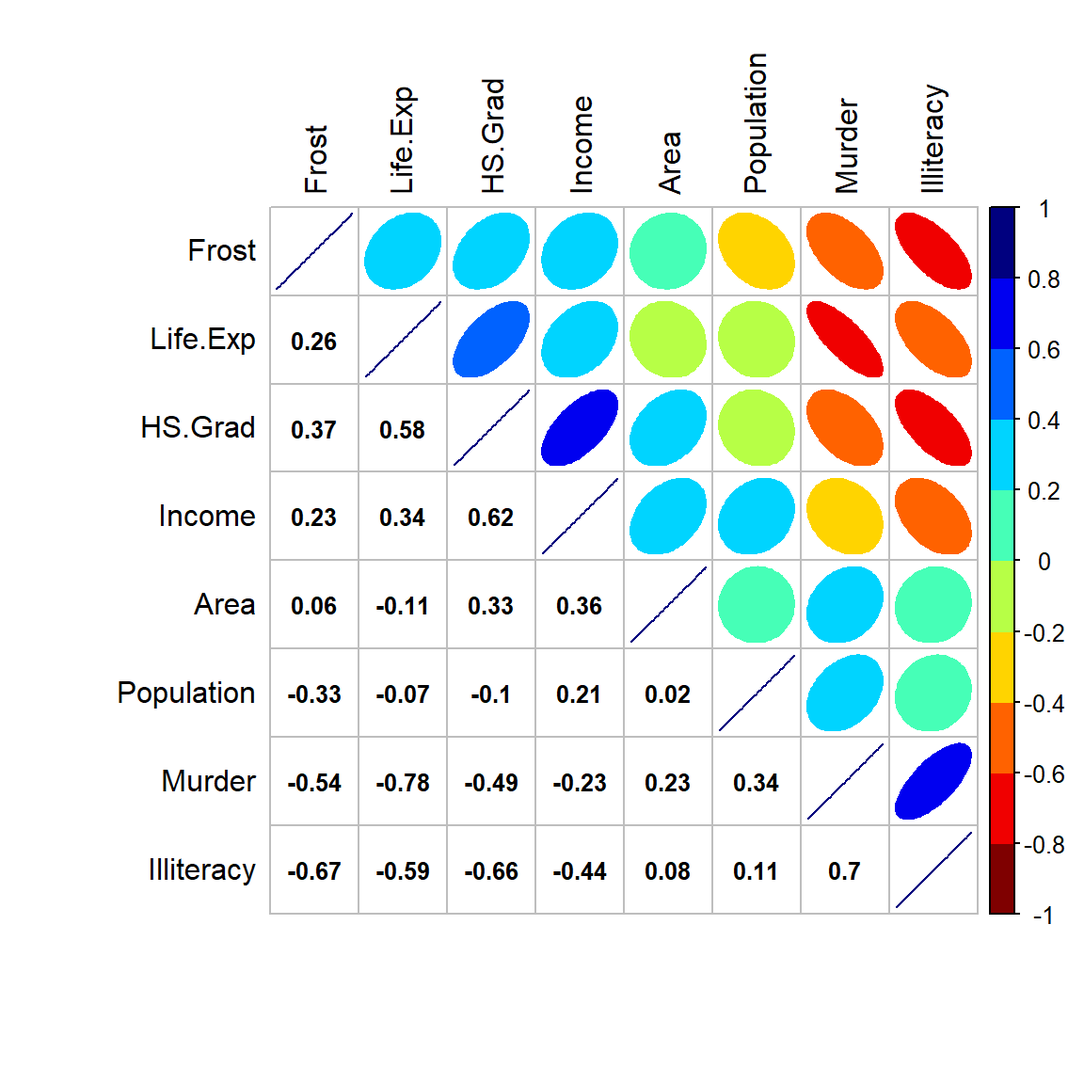
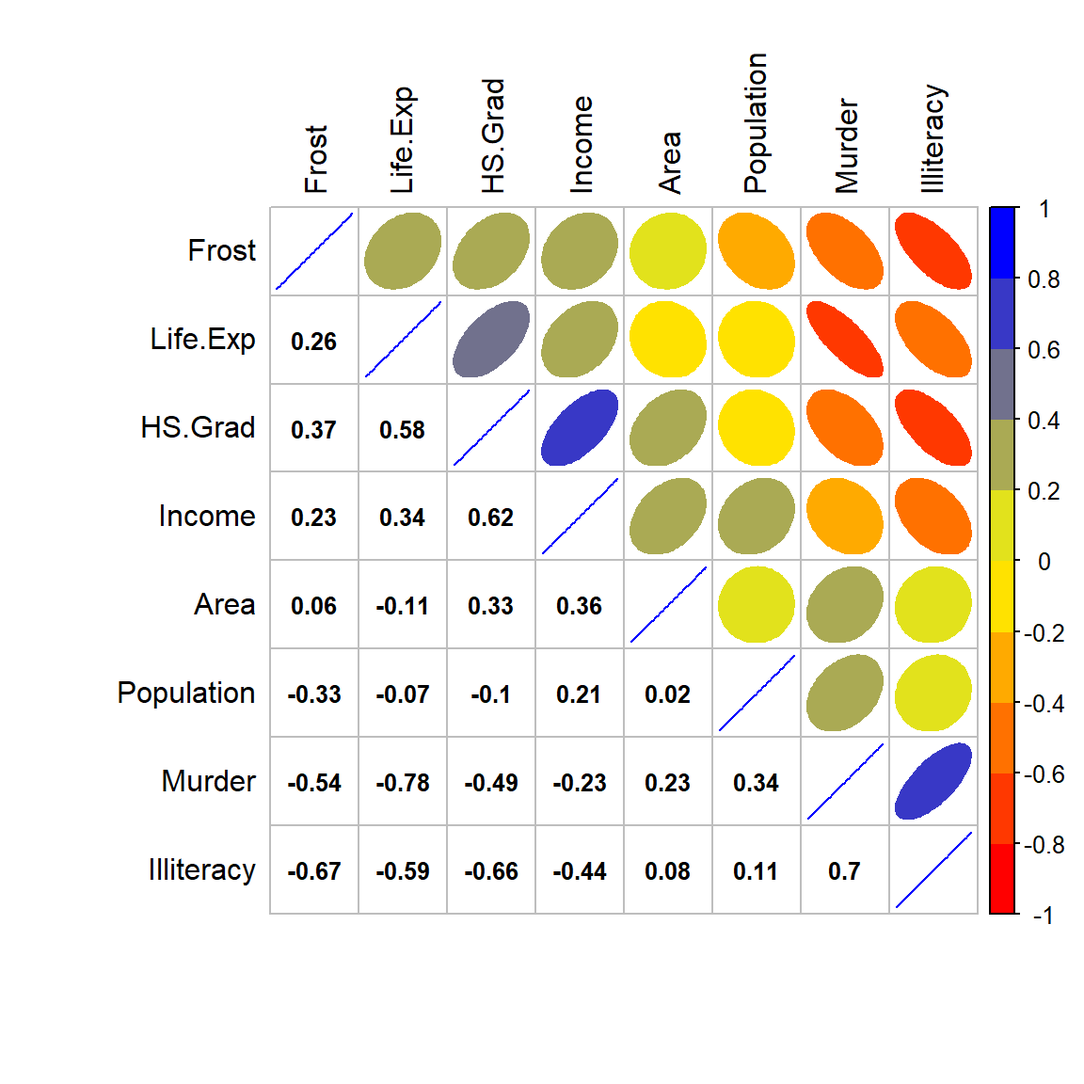
4/8/2019

Changed region(s): [[0.3125, 0.1875, 0.9375, 0.8438]]

diff --git a/docs/exploring-of-state-data-set.html b/docs/exploring-of-state-data-set.html
@@ -25,7 +25,7 @@
 <meta name="author" content="Xijin Ge">
 
 
-<meta name="date" content="2019-04-07">
+<meta name="date" content="2019-04-08">
 
   <meta name="viewport" content="width=device-width, initial-scale=1">
   <meta name="apple-mobile-web-app-capable" content="yes">
@@ -175,7 +175,7 @@ code > span.in { color: #60a0b0; font-weight: bold; font-style: italic; } /* Inf
 </ul></li>
 <li class="chapter" data-level="8" data-path="exploring-of-state-data-set.html"><a href="exploring-of-state-data-set.html"><i class="fa fa-check"></i><b>8</b> Exploring of state data set</a><ul>
 <li class="chapter" data-level="8.1" data-path="exploring-of-state-data-set.html"><a href="exploring-of-state-data-set.html#reading-in-and-manipulating-data"><i class="fa fa-check"></i><b>8.1</b> Reading in and manipulating data</a></li>
-<li class="chapter" data-level="8.2" data-path="exploring-of-state-data-set.html"><a href="exploring-of-state-data-set.html#exploring-state-data"><i class="fa fa-check"></i><b>8.2</b> Exploring state data</a></li>
+<li class="chapter" data-level="8.2" data-path="exploring-of-state-data-set.html"><a href="exploring-of-state-data-set.html#visualizing-data"><i class="fa fa-check"></i><b>8.2</b> Visualizing data</a></li>
 <li class="chapter" data-level="8.3" data-path="exploring-of-state-data-set.html"><a href="exploring-of-state-data-set.html#analyzing-the-relationship-among-variables"><i class="fa fa-check"></i><b>8.3</b> Analyzing the relationship among variables</a></li>
 <li class="chapter" data-level="8.4" data-path="exploring-of-state-data-set.html"><a href="exploring-of-state-data-set.html#peeking-the-whole-picture-of-the-data-set"><i class="fa fa-check"></i><b>8.4</b> Peeking the whole picture of the data set</a></li>
 <li class="chapter" data-level="8.5" data-path="exploring-of-state-data-set.html"><a href="exploring-of-state-data-set.html#linear-model-anylysis"><i class="fa fa-check"></i><b>8.5</b> Linear model anylysis</a></li>
@@ -311,9 +311,14 @@ sta &lt;-<span class="st"> </span><span class="kw">cbind</span>(state.abb, tem, 
 ##  Max.   :566432                     
 ## </code></pre>
 </div>
-<div id="exploring-state-data" class="section level2">
-<h2><span class="header-section-number">8.2</span> Exploring state data</h2>
-<p>Firstly, let’s see whether the numeric variables are normally distributed or not.There are multiple ways to check the normality of numeric data: - histogram: Does the histogram approaches to a normal density curve? If yes, then the variable more likely follows a normal distribution. - Q-Q plot: Does the sample quantiles almost fall into a straight line ? If yes, then the variable more likely followa a normal distribution. - Shapiro-Wilk test: This is a widely used normality test. The null hypothesis is that a variable follows a normal distribution. Small p-value indicates a non-normality of the variable.</p>
+<div id="visualizing-data" class="section level2">
+<h2><span class="header-section-number">8.2</span> Visualizing data</h2>
+<p>Let’s start from visualizing the distributions of numeric variables. In many cases, we want to know if our data follows a normal distribution or not. Here are some ways that we can check the normality of a variable.</p>
+<ul>
+<li><p>Histogram: Does the histogram approaches to a normal density curve? If yes, then the variable more likely follows a normal distribution.</p></li>
+<li><p>Q-Q plot: Does the sample quantiles almost fall into a straight line ? If yes, then the variable more likely followa a normal distribution.</p></li>
+<li><p>Shapiro-Wilk test: This is a widely used normality test. The null hypothesis is that a variable follows a normal distribution. Small p-value indicates a non-normality of the variable.</p></li>
+</ul>
 <div class="sourceCode"><pre class="sourceCode r"><code class="sourceCode r"><span class="kw">library</span>(dplyr)
 a &lt;-<span class="st"> </span><span class="kw">colnames</span>(sta)[<span class="dv">2</span><span class="op">:</span><span class="dv">9</span>] <span class="co"># pick up all numeric columns/variables according to the names </span>
 <span class="kw">par</span>(<span class="dt">mfrow =</span> <span class="kw">c</span>(<span class="dv">4</span>, <span class="dv">4</span>))    <span class="co"># layout outouts in 4 rows and 4 columns</span>
@@ -326,7 +331,7 @@ a &lt;-<span class="st"> </span><span class="kw">colnames</span>(sta)[<span clas
                       <span class="co"># frame as a numeric vector. Functions can be applied to a vector directly.  </span>
   <span class="kw">hist</span>(sub, <span class="dt">main =</span> <span class="kw">paste</span>(<span class="st">&quot;Hist. of&quot;</span>, a[i], <span class="dt">sep =</span> <span class="st">&quot; &quot;</span>), <span class="dt">xlab =</span> a[i])
   <span class="kw">qqnorm</span>(sub, <span class="dt">main =</span> <span class="kw">paste</span>(<span class="st">&quot;Q-Q Plot of&quot;</span>, a[i], <span class="dt">sep =</span> <span class="st">&quot; &quot;</span>)) <span class="co">#Q-Q plot</span>
-  <span class="kw">qqline</span>(sub)           <span class="co"># Add a qq plot line. </span>
+  <span class="kw">qqline</span>(sub)           <span class="co"># Add a QQ plot line. </span>
   <span class="cf">if</span> (i <span class="op">==</span><span class="st"> </span><span class="dv">1</span>) {s.t &lt;-<span class="st"> </span><span class="kw">shapiro.test</span>(sub) <span class="co"># Normality test for population</span>
   } <span class="cf">else</span> {s.t &lt;-<span class="st"> </span><span class="kw">rbind</span>(s.t, <span class="kw">shapiro.test</span>(sub)) <span class="co"># Bind a new test result to previous results in row. </span>
  }
@@ -345,12 +350,12 @@ s.t</code></pre></div>
 ##     &quot;Frost&quot;      0.9545618 0.05267472  
 ##     &quot;Area&quot;       0.5717872 7.591835e-11</code></pre>
 <p>From the histograms and QQplots we can see that the distribution of Population, Illiteracy and Area skewed to the left. Income and Life.Exp distributed close to normal. The shapiro tests show that Income, Life.Exp and Frost are normally distributed with p value greater than 0.05, while Murder and HS.Grad are almost normally distributed with p value really close to 0.05. There is no evidence that Population, Illiteracy and Area have normal distribution.</p>
-<p>As for the categorical variable region, here is the region information including the count and percentage of states.</p>
+<p>In the state data, there are a categorical variable <em>region</em> which contains 4 observations. What is the distribution of the categorical variable? Let’s take a look at the number of observations(states) in each region and the corresponding percentage.</p>
 
-<div class="sourceCode"><pre class="sourceCode r"><code class="sourceCode r">counts &lt;-<span class="st"> </span><span class="kw">sort</span>(<span class="kw">table</span>(sta<span class="op">$</span>Region), <span class="dt">decreasing =</span> <span class="ot">TRUE</span>)
-percentages &lt;-<span class="st"> </span><span class="dv">100</span> <span class="op">*</span><span class="st"> </span>counts <span class="op">/</span><span class="st"> </span><span class="kw">length</span>(sta<span class="op">$</span>Region)
-<span class="kw">barplot</span>(percentages, <span class="dt">ylab =</span> <span class="st">&quot;Percentage&quot;</span>, <span class="dt">col =</span> <span class="st">&quot;lightblue&quot;</span>)
-<span class="kw">text</span>(<span class="dt">x=</span><span class="kw">seq</span>(<span class="fl">0.7</span>, <span class="dv">5</span>, <span class="fl">1.2</span>), <span class="dv">2</span>, <span class="kw">paste</span>(<span class="st">&quot;n=&quot;</span>, counts))</code></pre></div>
+<div class="sourceCode"><pre class="sourceCode r"><code class="sourceCode r">counts &lt;-<span class="st"> </span><span class="kw">sort</span>(<span class="kw">table</span>(sta<span class="op">$</span>Region), <span class="dt">decreasing =</span> <span class="ot">TRUE</span>)  <span class="co">#Count the number of states in each region</span>
+percentages &lt;-<span class="st"> </span><span class="dv">100</span> <span class="op">*</span><span class="st"> </span>counts <span class="op">/</span><span class="st"> </span><span class="kw">length</span>(sta<span class="op">$</span>Region)      <span class="co">#Calculate the percentage of states in each region</span>
+<span class="kw">barplot</span>(percentages, <span class="dt">ylab =</span> <span class="st">&quot;Percentage&quot;</span>, <span class="dt">col =</span> <span class="st">&quot;lightblue&quot;</span>) <span class="co">#Obtain bar chart based on percentages</span>
+<span class="kw">text</span>(<span class="dt">x=</span><span class="kw">seq</span>(<span class="fl">0.7</span>, <span class="dv">5</span>, <span class="fl">1.2</span>), <span class="dv">2</span>, <span class="kw">paste</span>(<span class="st">&quot;n=&quot;</span>, counts))      <span class="co">#Add count to each bar</span></code></pre></div>
 <div class="figure" style="text-align: center"><span id="fig:state-region"></span>
 <img src="book_files/figure-html/state-region-1.png" alt="State count in each region" width="672" />
 <p class="caption">
@@ -358,14 +363,14 @@ Figure 8.1: State count in each region
 </p>
 </div>
 <p>Bar plot tells us that we have relatively more states in South(16) and less states in Northeast(9). North Central and West have similar number of states(12 and 13).</p>
-<p>If we want to know whether the populations in California and New York are more than the other states like what we have in now days, or the population of South Dakota comparing with other states, we use Lollipop plot to show the population of all states.</p>
+<p>If we want to know whether the populations in California and New York are more than the other states like what we have in now days, or the population of South Dakota comparing with other states, we use Lollipop plot to show the population of all states. A lollipop plot is a hybrid of a scatter plot and a barplot. It shows the relationship between two variables. One must be numerical variable, and the other one can be numerical or categorical variable.A lollipop chart is constituted by a point (made with geom_point) and a segment (made by geom_segment). Therefore you can modify this two components using the usual arguments: ‘size’, ‘color’, ‘linetype’, ‘alpha’, ‘shape’, etc. Here is the lollipop chart shows the relationship between state and population.</p>
 
 <div class="sourceCode"><pre class="sourceCode r"><code class="sourceCode r"><span class="kw">library</span>(ggplot2)
 <span class="kw">ggplot</span>(sta, <span class="kw">aes</span>(<span class="dt">x =</span> State, <span class="dt">y =</span> Population)) <span class="op">+</span>
-<span class="st">  </span><span class="kw">geom_point</span>(<span class="dt">size =</span> <span class="dv">3</span>) <span class="op">+</span>
+<span class="st">  </span><span class="kw">geom_point</span>(<span class="dt">size=</span><span class="dv">3</span>, <span class="dt">color=</span><span class="st">&quot;red&quot;</span>, <span class="dt">fill=</span><span class="kw">alpha</span>(<span class="st">&quot;orange&quot;</span>, <span class="fl">0.3</span>), <span class="dt">alpha=</span><span class="fl">0.5</span>, <span class="dt">shape=</span><span class="dv">20</span>, <span class="dt">stroke=</span><span class="dv">2</span>) <span class="op">+</span>
 <span class="st">  </span><span class="kw">geom_segment</span>(<span class="kw">aes</span>(<span class="dt">x =</span> State, <span class="dt">xend =</span> State, <span class="dt">y =</span> <span class="dv">0</span>, <span class="dt">yend =</span> Population)) <span class="op">+</span>
 <span class="st">  </span><span class="kw">labs</span>(<span class="dt">title =</span> <span class="st">&quot;Lollipop Chart for Population&quot;</span>) <span class="op">+</span>
-<span class="st">  </span><span class="kw">theme</span>(<span class="dt">plot.title =</span> <span class="kw">element_text</span>(<span class="dt">hjust =</span> <span class="fl">0.5</span>), <span class="dt">axis.text.x =</span> <span class="kw">element_text</span>(<span class="dt">angle =</span> <span class="dv">65</span>, <span class="dt">vjust =</span> <span class="fl">0.6</span>))</code></pre></div>
+<span class="st">  </span><span class="kw">theme</span>(<span class="dt">plot.title =</span> <span class="kw">element_text</span>(<span class="dt">hjust =</span> <span class="fl">0.5</span>), <span class="dt">axis.text.x =</span> <span class="kw">element_text</span>(<span class="dt">angle =</span> <span class="dv">90</span>, <span class="dt">vjust =</span> <span class="fl">0.5</span>))</code></pre></div>
 <div class="figure" style="text-align: center"><span id="fig:state-pop"></span>
 <img src="book_files/figure-html/state-pop-1.png" alt="Loppipop plot of population in each state" width="672" />
 <p class="caption">
@@ -373,12 +378,13 @@ Figure 8.2: Loppipop plot of population in each state
 </p>
 </div>
 <p>From the plot we can see even in early days, California and New York are the top two states in population. South Dakota have little population even in 1970s.</p>
-<p>Other questions we may ask are: how about the murder rate distribution in early days? Is it the same for different states and different regions? What are the main effect factors to murder rate? Can we use model of other factors to explain their contribution to murder rate?</p>
+<p>Other questions we may ask are: how about the murder rate distribution in early days? Is it the same for different states and different regions? What are the main effect factors to murder rate? Can we use model of other factors to explain their contribution to murder rate? A choropleth map may give us an overall view.</p>
 
 <div class="sourceCode"><pre class="sourceCode r"><code class="sourceCode r"><span class="kw">library</span>(maps)
-sta<span class="op">$</span>region &lt;-<span class="st"> </span><span class="kw">tolower</span>(state.name)  <span class="co"># create new character vector with lowercase states names</span>
-states &lt;-<span class="st"> </span><span class="kw">map_data</span>(<span class="st">&quot;state&quot;</span>)  <span class="co"># extract state data</span>
-map &lt;-<span class="st"> </span><span class="kw">merge</span>(states, sta, <span class="dt">by =</span> <span class="st">&quot;region&quot;</span>, <span class="dt">all.x =</span> T)  <span class="co"># merge states and state.x77 data</span>
+<span class="kw">library</span>(ggplot2)
+sta<span class="op">$</span>region &lt;-<span class="st"> </span><span class="kw">tolower</span>(state.name)  <span class="co"># Create new character vector with lowercase states names</span>
+states &lt;-<span class="st"> </span><span class="kw">map_data</span>(<span class="st">&quot;state&quot;</span>)        <span class="co"># Extract state data</span>
+map &lt;-<span class="st"> </span><span class="kw">merge</span>(states, sta, <span class="dt">by =</span> <span class="st">&quot;region&quot;</span>, <span class="dt">all.x =</span> T)  <span class="co"># Merge states and state.x77 data</span>
 map &lt;-<span class="st"> </span>map[<span class="kw">order</span>(map<span class="op">$</span>order), ]
 <span class="kw">ggplot</span>(map, <span class="kw">aes</span>(<span class="dt">x =</span> long, <span class="dt">y =</span> lat, <span class="dt">group =</span> group)) <span class="op">+</span><span class="st">  </span>
 <span class="st">  </span><span class="kw">geom_polygon</span>(<span class="kw">aes</span>(<span class="dt">fill =</span> Murder)) <span class="op">+</span><span class="st">   </span>
@@ -411,27 +417,33 @@ Figure 8.4: Ridgeline plot for murder rate in each region
 <p>The ridgeline plot tells us that murder rate skewed to the left for region west, northeast and north central, but skewed to the right for region south, which confirm with map above that south has big murder rate than other regions.</p>
 
 <div class="exercise">
-<span id="exr:unnamed-chunk-3" class="exercise"><strong>Exercise 8.1  </strong></span>Use lollipop plots to explore the distribution of Illiteracy in state.x77 data set and give brief interpretation. Hint: You can combine state.abb to state.x77 or use the row names of state.x77 data set directly.
+<span id="exr:unnamed-chunk-3" class="exercise"><strong>Exercise 8.1  </strong></span>Similar to Figure <a href="exploring-of-state-data-set.html#fig:state-map">8.3</a>, use lollipop plots to obtain the Illiteracy map in state.x77 data set and give a brief interpretation. Hint: You can combine state.abb to state.x77 or use the row names of state.x77 data set directly. You can start from importing the data:
 </div>
 
+<div class="sourceCode"><pre class="sourceCode r"><code class="sourceCode r">tem &lt;-<span class="st"> </span><span class="kw">data.frame</span>(state.x77) 
+sta &lt;-<span class="st"> </span><span class="kw">cbind</span>(state.abb, tem, state.region)
+<span class="kw">colnames</span>(sta)[<span class="dv">10</span>] &lt;-<span class="st"> &quot;Region&quot;</span> 
+......</code></pre></div>
+<hr />
 
 <div class="exercise">
-<span id="exr:unnamed-chunk-4" class="exercise"><strong>Exercise 8.2  </strong></span>Use ridgeline plot to explore the regional distribution of Illiteracy for state.x77 and state.region data sets and interpret your figure.
+<span id="exr:unnamed-chunk-5" class="exercise"><strong>Exercise 8.2  </strong></span>Similar to Figure <a href="exploring-of-state-data-set.html#fig:state-murder">8.4</a>, use ridgeline plot to explore the regional distribution of Illiteracy for state.x77 and state.region data sets and interpret your figure.
 </div>
 
+<hr />
 </div>
 <div id="analyzing-the-relationship-among-variables" class="section level2">
 <h2><span class="header-section-number">8.3</span> Analyzing the relationship among variables</h2>
+<p>To visulize the linear relationship among variables in a plot, a scatter matrix is the best choice. A scatter matrix is a pair-wise scatter plot of multiple variables presented in a matrix format. It measures the linear relationship among variables. The range of correlation coefficient is [-1, 1]. The coefficient -1 implies two variables are strictly negative related, such as <span class="math inline">\(y=-x\)</span>. And coefficient 1 implies positive related, such as <span class="math inline">\(y=2x+1\)</span>. Here is an example of how to make a scatter matrix.</p>
 
 <div class="sourceCode"><pre class="sourceCode r"><code class="sourceCode r">st &lt;-<span class="st"> </span>sta[, <span class="dv">2</span><span class="op">:</span><span class="dv">9</span>] <span class="co">#take numeric variables as goal matrix</span>
 <span class="kw">library</span>(ellipse) 
 <span class="kw">library</span>(corrplot)
-corMatrix &lt;-<span class="st"> </span><span class="kw">cor</span>(<span class="kw">as.matrix</span>(st)) <span class="co"># correlation matrix</span>
-col &lt;-<span class="st"> </span><span class="kw">colorRampPalette</span>(<span class="kw">c</span>(<span class="st">&quot;#7F0000&quot;</span>, <span class="st">&quot;red&quot;</span>, <span class="st">&quot;#FF7F00&quot;</span>, <span class="st">&quot;yellow&quot;</span>, <span class="st">&quot;#7FFF7F&quot;</span>,
-                           <span class="st">&quot;cyan&quot;</span>, <span class="st">&quot;#007FFF&quot;</span>, <span class="st">&quot;blue&quot;</span>, <span class="st">&quot;#00007F&quot;</span>))
+corMatrix &lt;-<span class="st"> </span><span class="kw">cor</span>(<span class="kw">as.matrix</span>(st)) <span class="co"># Calculate correlation matrix</span>
+col &lt;-<span class="st"> </span><span class="kw">colorRampPalette</span>(<span class="kw">c</span>(<span class="st">&quot;red&quot;</span>, <span class="st">&quot;yellow&quot;</span>, <span class="st">&quot;blue&quot;</span>))   <span class="co">#Color values. Red, yellow and blue represent that the coefficients are -1, 0 and 1 respectively. You can use more than 3 colors to represent the coefficients ranging from -1 to 1.</span>
 <span class="kw">corrplot.mixed</span>(corMatrix, <span class="dt">order =</span> <span class="st">&quot;AOE&quot;</span>, <span class="dt">lower =</span> <span class="st">&quot;number&quot;</span>, <span class="dt">lower.col =</span> <span class="st">&quot;black&quot;</span>, 
                <span class="dt">number.cex =</span> .<span class="dv">8</span>, <span class="dt">upper =</span> <span class="st">&quot;ellipse&quot;</span>,  <span class="dt">upper.col =</span> <span class="kw">col</span>(<span class="dv">10</span>), 
-               <span class="dt">diag =</span> <span class="st">&quot;u&quot;</span>, <span class="dt">tl.pos =</span> <span class="st">&quot;lt&quot;</span>, <span class="dt">tl.col =</span> <span class="st">&quot;black&quot;</span>)</code></pre></div>
+               <span class="dt">diag =</span> <span class="st">&quot;u&quot;</span>, <span class="dt">tl.pos =</span> <span class="st">&quot;lt&quot;</span>, <span class="dt">tl.col =</span> <span class="st">&quot;black&quot;</span>) <span class="co">#Type ?corrplot.mixed in the Console to get help in detail.</span></code></pre></div>
 <div class="figure" style="text-align: center"><span id="fig:state-corrplot"></span>
 <img src="book_files/figure-html/state-corrplot-1.png" alt="Corrplot for numeric variables" width="576" />
 <p class="caption">
@@ -443,9 +455,10 @@ Figure 8.5: Corrplot for numeric variables
 <p>Positive correlation between Murder and Illiteracy with r value of 0.70, which means the lower education level the state have, the higher murder rate chance it will happen in that state; Negative correlations between Murder and Life.Exp, Frost, with r value of -0.78, and -0.54 illustrate that the more occurrence of murder, the shorter life expectation the state will have; And the colder of the weather, the lower chance the murder will occur: too cold to murder?!</p>
 
 <div class="exercise">
-<span id="exr:unnamed-chunk-5" class="exercise"><strong>Exercise 8.3  </strong></span>According to the corrplot, Figure <a href="exploring-of-state-data-set.html#fig:state-corrplot">8.5</a>, explain the correlation between Illiteracy and other variables.
+<span id="exr:unnamed-chunk-6" class="exercise"><strong>Exercise 8.3  </strong></span>Similar to Figure <a href="exploring-of-state-data-set.html#fig:state-corrplot">8.5</a>, plot a scatter matrix among 7 variables: <em>mpg</em>, <em>cyl</em>, <em>disp</em>, <em>hp</em>, <em>drat</em>, <em>wt</em> and <em>qsec</em> in the data set <em>mtcars</em>. Give a brief interpretation of the scatter matrix plot.
 </div>
 
+<hr />
 <p>Now let’s see the cluster situation of these variables.</p>
 
 <div class="sourceCode"><pre class="sourceCode r"><code class="sourceCode r"><span class="kw">plot</span>(<span class="kw">hclust</span>(<span class="kw">as.dist</span>(<span class="dv">1</span> <span class="op">-</span><span class="st"> </span><span class="kw">cor</span>(<span class="kw">as.matrix</span>(st)))))  <span class="co"># hierarchical clustering</span></code></pre></div>
@@ -456,6 +469,12 @@ Figure 8.6: Cluster dendrogram for state numeric variables
 </p>
 </div>
 <p>The cluster Dendrogram tells us that there are two clusters for these variables. Murder is mostly close to Illiteracy, and then to Population and Area. Similar situation, HS.Grad is mostly close to Income, and then to Life.Exp and Frost. Though illiteracy and HS.Grad are in different cluster, we know for the same state, illiteracy is highly correlated with high school graduation rate , the lower the illiteracy, the higher the high school graduation rate. r value of -0.66 between Illiteracy and HS.Grad in the corrplot tells the same story.</p>
+
+<div class="exercise">
+<span id="exr:unnamed-chunk-7" class="exercise"><strong>Exercise 8.4  </strong></span>Similar to Figure <a href="exploring-of-state-data-set.html#fig:state-dendrogram">8.6</a>, plot a cluster dendrogram of the 7 variables: <em>mpg</em>, <em>cyl</em>, <em>disp</em>, <em>hp</em>, <em>drat</em>, <em>wt</em> and <em>qsec</em> in the data set <em>mtcars</em>. Give a brief interpretation of your output.
+</div>
+
+<hr />
 <p>we can use density plot to see the distribution of Illiteracy by region.</p>
 
 <div class="sourceCode"><pre class="sourceCode r"><code class="sourceCode r"><span class="kw">ggplot</span>(sta, <span class="kw">aes</span>(<span class="dt">x =</span> Illiteracy, <span class="dt">fill =</span> Region)) <span class="op">+</span><span class="st"> </span><span class="kw">geom_density</span>(<span class="dt">alpha =</span> <span class="fl">0.3</span>)</code></pre></div>
@@ -466,6 +485,12 @@ Figure 8.7: Illiteracy distribution by region
 </p>
 </div>
 <p>We can see that north central region has narrow density distribution with most Illiteracy less than 1 percent of population. While south region has an open distribution with illiteracy covered from 0.5 to 3, and most south states have illiteracy between 1.5 and 2.2. Though region west has a spread out distribution too, but it’s left skewed, which means there are still lots of west states with illiteracy less than 1% of population. Most northeast region states have illiteracy less then 1.5% of population.</p>
+
+<div class="exercise">
+<span id="exr:unnamed-chunk-8" class="exercise"><strong>Exercise 8.5  </strong></span>Similar to Figure <a href="exploring-of-state-data-set.html#fig:state-illiteracy">8.7</a>, use density plot to see the distribution of <em>mpg</em> by <em>cyl</em> in the data set <em>mtcars</em>.
+</div>
+
+<hr />
 <p>Because of the relationship of Murder with both Population and Area, We add one more column of Pop.Density for the population per square miles of area to see the correlation between Murder and this density.</p>
 
 <div class="sourceCode"><pre class="sourceCode r"><code class="sourceCode r">sta<span class="op">$</span>Pop.Density &lt;-<span class="st"> </span>sta<span class="op">$</span>Population<span class="op">/</span>sta<span class="op">$</span>Area
@@ -534,9 +559,10 @@ Figure 8.11: Relationship between murder rate and life expectancy, high school g
 <p>Most southern states has lower HS.Grad high, low Life.Exp but higher murder frequency, while states in other three regions have relative higher HS.Grad and income but lower murder rate.</p>
 
 <div class="exercise">
-<span id="exr:unnamed-chunk-6" class="exercise"><strong>Exercise 8.4  </strong></span>Use scatter plot to analyze the correlation between Illiteracy and those variables in the other cluster shown in Figure <a href="exploring-of-state-data-set.html#fig:state-dendrogram">8.6</a>. Interpret your plot.
+<span id="exr:unnamed-chunk-9" class="exercise"><strong>Exercise 8.6  </strong></span>Use scatter plot to analyze the correlation between Illiteracy and those variables in the other cluster shown in Figure <a href="exploring-of-state-data-set.html#fig:state-dendrogram">8.6</a>. Interpret your plot.
 </div>
 
+<hr />
 </div>
 <div id="peeking-the-whole-picture-of-the-data-set" class="section level2">
 <h2><span class="header-section-number">8.4</span> Peeking the whole picture of the data set</h2>
@@ -600,7 +626,7 @@ pca</code></pre></div>
 ## Frost       0.21268413 -0.472013140  0.02834442
 ## Area        0.14836054  0.286260213  0.01320320</code></pre>
 <div class="sourceCode"><pre class="sourceCode r"><code class="sourceCode r"><span class="kw">plot</span>(pca)  <span class="co"># plot the amount of variance each principal components captures.</span></code></pre></div>
-<p><img src="book_files/figure-html/unnamed-chunk-7-1.png" width="672" /></p>
+<p><img src="book_files/figure-html/unnamed-chunk-10-1.png" width="672" /></p>
 <div class="sourceCode"><pre class="sourceCode r"><code class="sourceCode r"><span class="kw">summary</span>(pca)  <span class="co">#shows the importance of the components</span></code></pre></div>
 <pre><code>## Importance of components:
 ##                           PC1    PC2    PC3     PC4     PC5     PC6
@@ -666,9 +692,10 @@ model &lt;-<span class="st"> </span><span class="kw">lm</span>(Murder <span clas
 <p>Murder is most related to Life.Exp and Population of the state, also affected by Illiteracy of the state. Region is another relative smaller factor contributing to murder rate. The estimates illustrate that every unit of increasing in Life.Exp will decrease 1.445 unit of murder rate, while every unit of increasing in population and illiteracy will increase 0.000259 and 1.861 unit of murder rate. At the same time, if the state belongs to northeast region, the murder rate will be 2.673 unit less. The model will explain 82% of the variance of murder rate. If we know the population, Life.Exp, Illiteracy of the certain state in those years, we can estimate murder rate as follow: <span class="math inline">\(Murder = 105.9 - 1.445 * Life.Exp + 0.000259 * Population + 1.861 * Illiteracy - 2.673 * RegionNortheast\)</span></p>
 
 <div class="exercise">
-<span id="exr:unnamed-chunk-9" class="exercise"><strong>Exercise 8.5  </strong></span>Do linear model analysis for Illiteracy and interpret your result. Hint: Check the corrplot figure <a href="exploring-of-state-data-set.html#fig:state-corrplot">8.5</a> and pay attention to the high correlation between murder rate and life expectancy.
+<span id="exr:unnamed-chunk-12" class="exercise"><strong>Exercise 8.7  </strong></span>Do linear model analysis for Illiteracy and interpret your result. Hint: Check the corrplot figure <a href="exploring-of-state-data-set.html#fig:state-corrplot">8.5</a> and pay attention to the high correlation between murder rate and life expectancy.
 </div>
 
+<hr />
 </div>
 <div id="conclusion" class="section level2">
 <h2><span class="header-section-number">8.6</span> Conclusion</h2>
